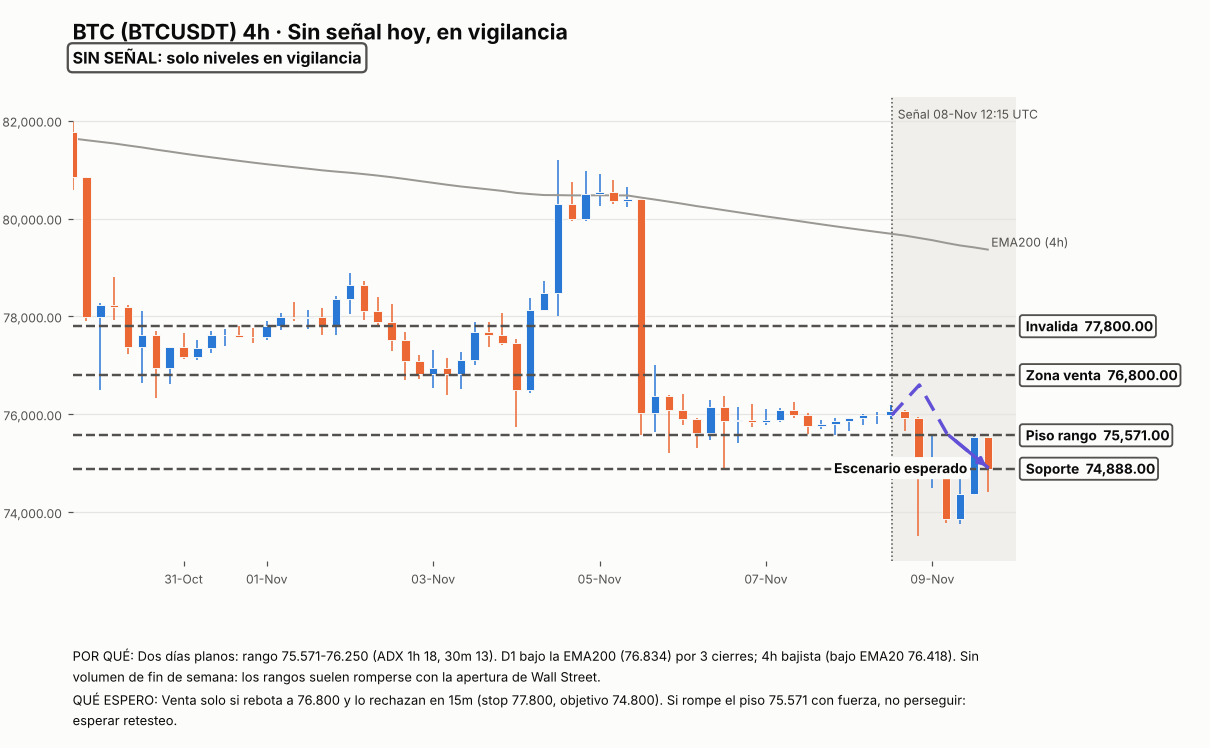
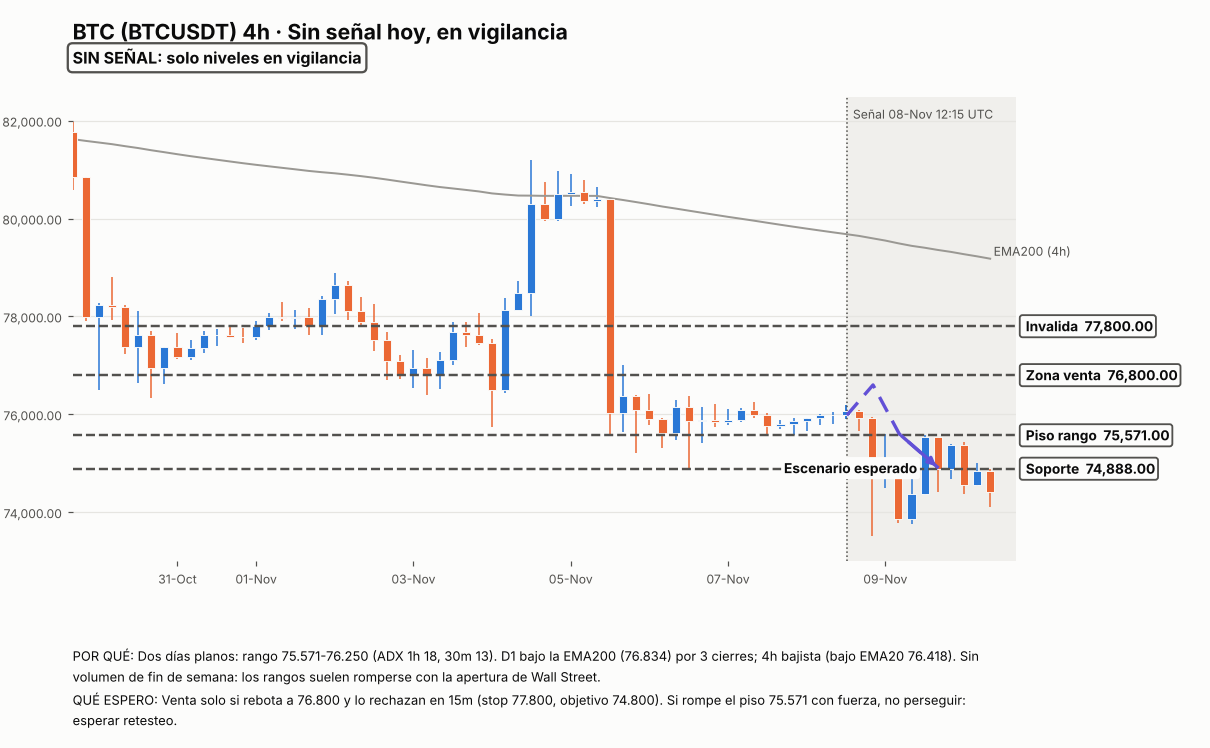
Análisis diario 2026-11-10: sin señal (IPC probable a las 15:30); vigilancia y arreglo de gráficas de señales viejas
charts.py: descarga desde 600 velas antes de la señal, para que las señales
viejas en temporalidades cortas no queden sin velas previas.

Claude-Session: https://claude.ai/code/session_0112KUKrpuvRoY46F1J2fEYn

diff --git a/trading_bot/paper_signals/charts.py b/trading_bot/paper_signals/charts.py
@@ -76,7 +76,10 @@ def _level(ax, y, label, color, x_end, style="-") -> None:
 def render(*, asset: str, symbol: str, title: str, created: pd.Timestamp, tf: str = "4h",
            levels: list[tuple[float, str, str, str]], path: list[tuple[pd.Timestamp, float]],
            why: str, expect: str, status: str, detail: str, out: Path) -> Path:
-    bars = klines(symbol, tf, limit=500)
+    # Desde 600 velas antes de la señal (EMA200 + 60 velas de contexto) hasta ahora, aunque la
+    # señal sea vieja y la temporalidad corta.
+    step = pd.Timedelta(tf.replace("m", "min").replace("1d", "1D"))
+    bars = klines(symbol, tf, limit=1000, start=created - step * 600)
     ema200 = ind.ema(bars["close"], 200)
     before = bars[bars.index < created].iloc[-60:]
     after = bars[bars.index >= created.floor(tf.replace("m", "min"))]

diff --git a/trading_bot/paper_signals/REPORTE.md b/trading_bot/paper_signals/REPORTE.md
@@ -1,6 +1,6 @@
 # Experimento de señales en paper — reporte
 
-Generado: 2026-11-09 12:19 UTC · capital simulado 100 USD · riesgo 1.0% por operación · sin apalancamiento
+Generado: 2026-11-10 12:18 UTC · capital simulado 100 USD · riesgo 1.0% por operación · sin apalancamiento
 
 |   id | creada           | activo   | dir   | tipo   |   entrada |   stop |    tp | estado    | ejecutada   | salida   | parcial   |   prob |   pnl_usd |     R |   costo_spread |
 |-----:|:-----------------|:---------|:------|:-------|----------:|-------:|------:|:----------|:------------|:---------|:----------|-------:|----------:|------:|---------------:|
